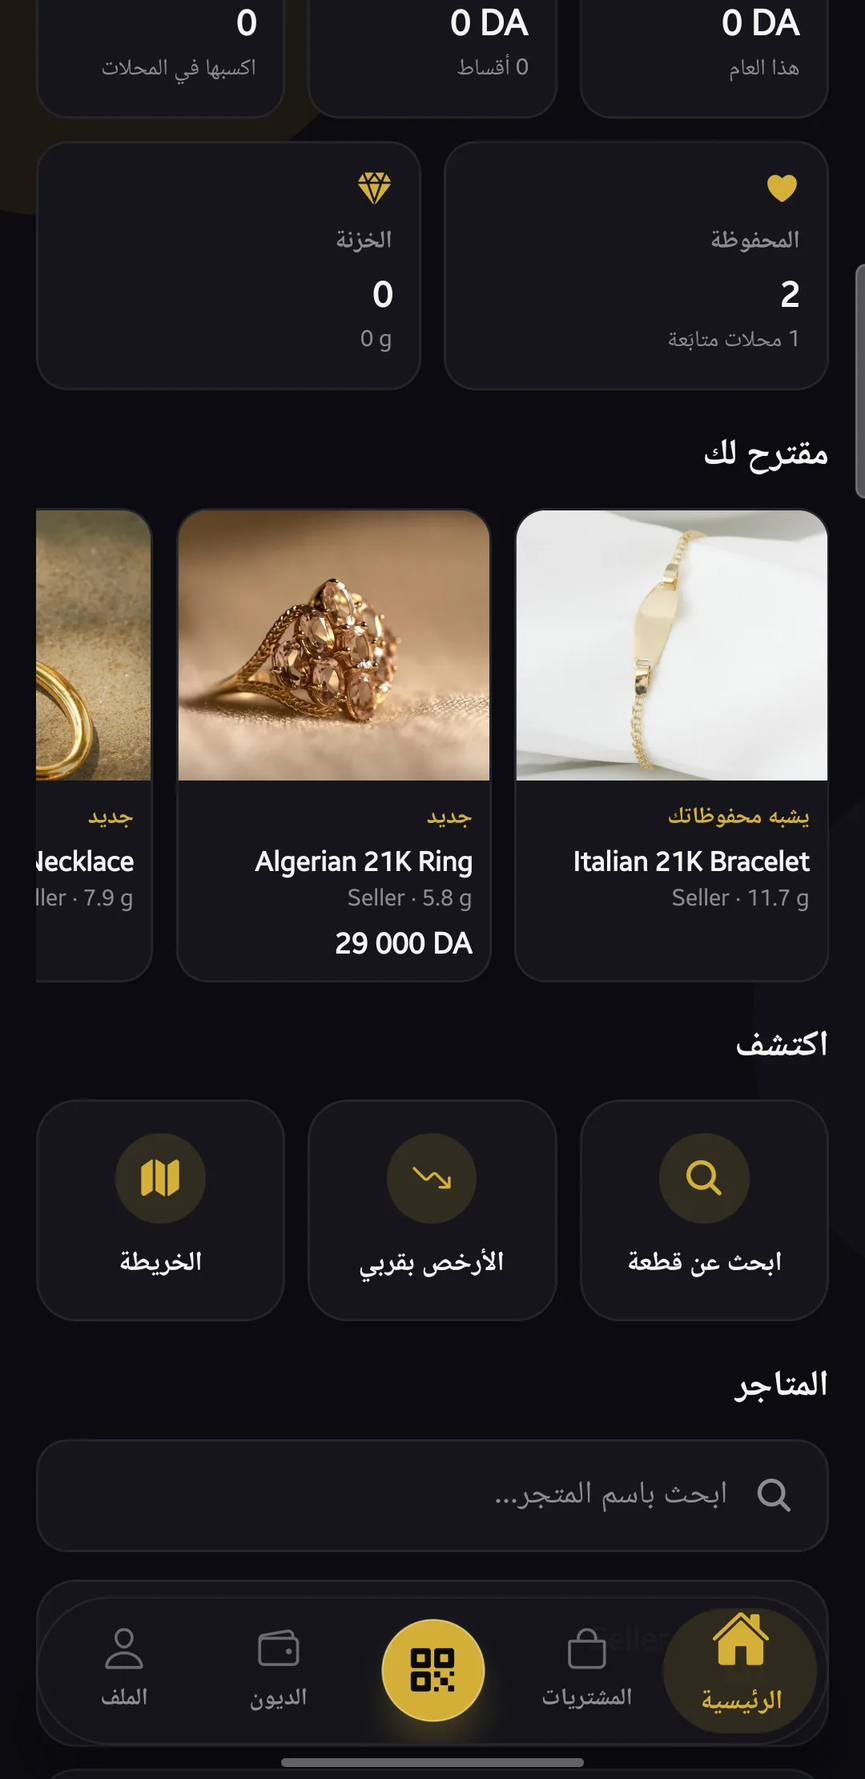
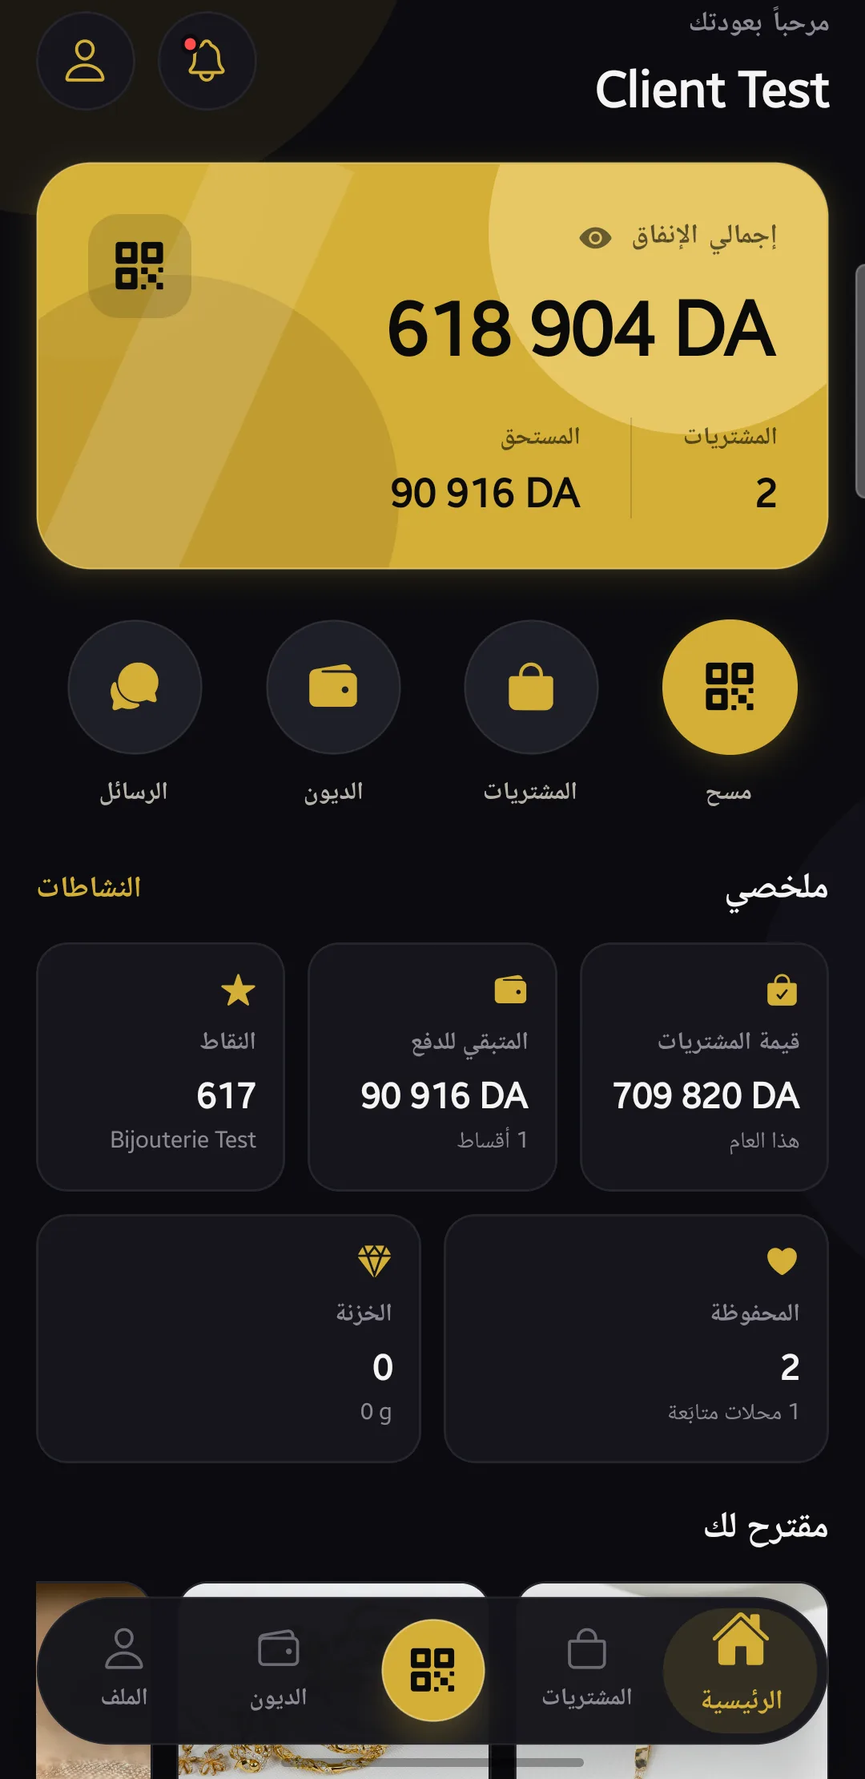
feat: shop QR links and the 1.4.3 features
- /shop/?s=<store> page: a printed shop QR opens here on phones without
  Aureum, with the download button (and "open in Aureum" for older versions)
- .well-known/assetlinks.json: lets Android open aureum-dz.com/shop links
  straight in the app (Android App Links, release-key fingerprint)
- .nojekyll so GitHub Pages publishes the .well-known folder
- Features: automatic 10% price alert, member card, printable shop QR,
  full sale details with every installment payment
- Tour: new screenshots (member card, flip cards, sale details, shop QR)
  and refreshed home, shop page and sell screens

diff --git a/index.html b/index.html
@@ -104,10 +104,11 @@
           <ul class="list">
             <li><span class="ic"><svg><use href="#i-tag"/></svg></span><div><b data-i18n="c1.b">سعر الغرام اليوم</b><span data-i18n="c1.s">كل محل ينشر سعره، وكل قطعة يظهر ثمنها حسب وزنها.</span></div></li>
             <li><span class="ic"><svg><use href="#i-map"/></svg></span><div><b data-i18n="c2.b">ابحث حسب ميزانيتك</b><span data-i18n="c2.s">قطع من محلات قريبة ضمن ميزانيتك، الأرخص قربك، والمحلات على الخريطة.</span></div></li>
-            <li><span class="ic"><svg><use href="#i-heart"/></svg></span><div><b data-i18n="c3.b">احفظ وتابع</b><span data-i18n="c3.s">تابع محلاتك واحفظ القطع، ويصلك تنبيه عندما ينخفض السعر.</span></div></li>
+            <li><span class="ic"><svg><use href="#i-heart"/></svg></span><div><b data-i18n="c3.b">احفظ وتابع</b><span data-i18n="c3.s">تابع محلاتك واحفظ القطع. تنبيه تلقائي عندما ينخفض السعر 10%، أو حدّد السعر الذي تريده.</span></div></li>
             <li><span class="ic"><svg><use href="#i-near"/></svg></span><div><b data-i18n="c4.b">شراء مؤكَّد بهاتفين</b><span data-i18n="c4.s">أكّد الشراء من هاتفك عند البائع، حتى بدون إنترنت.</span></div></li>
             <li><span class="ic"><svg><use href="#i-vault"/></svg></span><div><b data-i18n="c5.b">خزنتك الخاصة</b><span data-i18n="c5.s">سجّل مجوهراتك بصورها، لا يراها غيرك.</span></div></li>
             <li><span class="ic"><svg><use href="#i-star"/></svg></span><div><b data-i18n="c6.b">نقاط وأقساط</b><span data-i18n="c6.s">اجمع نقاطاً في محلاتك وخذ تخفيضاً، وتابع أقساطك ودفعاتك.</span></div></li>
+            <li><span class="ic"><svg><use href="#i-qr"/></svg></span><div><b data-i18n="c7.b">بطاقة العضو</b><span data-i18n="c7.s">رمز QR باسمك يمسحه المحل ليسجّل مشترياتك باسمك.</span></div></li>
           </ul>
         </article>
         <article class="side gold">
@@ -120,6 +121,8 @@
             <li><span class="ic"><svg><use href="#i-chart"/></svg></span><div><b data-i18n="s4.b">لوحة محلك</b><span data-i18n="s4.s">من يشاهد قطعك ومن أي مسافة، وما يبحث عنه الناس قربك.</span></div></li>
             <li><span class="ic"><svg><use href="#i-users"/></svg></span><div><b data-i18n="s5.b">العمال بصلاحيات</b><span data-i18n="s5.s">كل عامل يرى ويفعل ما تسمح له به فقط.</span></div></li>
             <li><span class="ic"><svg><use href="#i-export"/></svg></span><div><b data-i18n="s6.b">بياناتك لك</b><span data-i18n="s6.s">صدّرها PDF أو Word أو Excel متى شئت. ويعمل حتى بدون إنترنت.</span></div></li>
+            <li><span class="ic"><svg><use href="#i-qr"/></svg></span><div><b data-i18n="s7.b">رمز محلك للطباعة</b><span data-i18n="s7.s">ملصق A4 أو بطاقات زيارة بالرمز والشعار والهاتف. من لديه التطبيق تُفتح له صفحة محلك مباشرة.</span></div></li>
+            <li><span class="ic"><svg><use href="#i-chart"/></svg></span><div><b data-i18n="s8.b">تفاصيل كل بيعة</b><span data-i18n="s8.s">القطعة، سعر الذهب لحظة البيع، الزبون، وكل دفعة قسط بتاريخها وساعتها.</span></div></li>
           </ul>
           <p class="note" data-i18n="shop.note"><b>تجربة مجانية</b> لكل محل جديد. للاشتراك والتفعيل راسلنا على واتساب.</p>
         </article>
@@ -135,12 +138,16 @@
         <figure><div class="frame"><div class="shot"><img src="assets/screens/sign-in.webp" alt="" loading="lazy"><div class="ph"><span class="tile"></span><span data-i18n="shot.soon0a">صورة قريباً</span></div></div></div><figcaption><b data-i18n="t0a.b">تسجيل الدخول</b><span data-i18n="t0a.s">بحساب Google، بنقرة واحدة</span></figcaption></figure>
         <figure><div class="frame"><div class="shot"><img src="assets/screens/choose-role.webp" alt="" loading="lazy"><div class="ph"><span class="tile"></span><span data-i18n="shot.soon0b">صورة قريباً</span></div></div></div><figcaption><b data-i18n="t0b.b">زبون أو محل</b><span data-i18n="t0b.s">اختر دورك عند إنشاء الحساب</span></figcaption></figure>
         <figure><div class="frame"><div class="shot"><img src="assets/screens/customer-home.webp" alt="" loading="lazy"><div class="ph"><span class="tile"></span><span data-i18n="shot.soon2">صورة قريباً</span></div></div></div><figcaption><b data-i18n="t1.b">الرئيسية</b><span data-i18n="t1.s">أسعار محلاتك وما يناسبك</span></figcaption></figure>
+        <figure><div class="frame"><div class="shot"><img src="assets/screens/member-card.webp" alt="" loading="lazy"><div class="ph"><span class="tile"></span><span data-i18n="shot.soon9">صورة قريباً</span></div></div></div><figcaption><b data-i18n="t1b.b">بطاقة العضو</b><span data-i18n="t1b.s">رمزك لكل محل</span></figcaption></figure>
         <figure><div class="frame"><div class="shot"><img src="assets/screens/discover.webp" alt="" loading="lazy"><div class="ph"><span class="tile"></span><span data-i18n="shot.soon3">صورة قريباً</span></div></div></div><figcaption><b data-i18n="t2.b">اكتشف</b><span data-i18n="t2.s">الميزانية، الأرخص قربك، الخريطة</span></figcaption></figure>
-        <figure><div class="frame"><div class="shot"><img src="assets/screens/shop-page.webp" alt="" loading="lazy"><div class="ph"><span class="tile"></span><span data-i18n="shot.soon4">صورة قريباً</span></div></div></div><figcaption><b data-i18n="t3.b">صفحة المحل</b><span data-i18n="t3.s">الأسعار، القطع، الهاتف والموقع</span></figcaption></figure>
+        <figure><div class="frame"><div class="shot"><img src="assets/screens/shop-page.webp" alt="" loading="lazy"><div class="ph"><span class="tile"></span><span data-i18n="shot.soon4">صورة قريباً</span></div></div></div><figcaption><b data-i18n="t3.b">صفحة المحل</b><span data-i18n="t3.s">الأسعار، القطع، المتابعون وتنبيه السعر</span></figcaption></figure>
+        <figure><div class="frame"><div class="shot"><img src="assets/screens/flip-cards.webp" alt="" loading="lazy"><div class="ph"><span class="tile"></span><span data-i18n="shot.soon9">صورة قريباً</span></div></div></div><figcaption><b data-i18n="t3b.b">القطع</b><span data-i18n="t3b.s">اقلب القطعة لترى وزنها وتفاصيلها</span></figcaption></figure>
         <figure><div class="frame"><div class="shot"><img src="assets/screens/saved-vault.webp" alt="" loading="lazy"><div class="ph"><span class="tile"></span><span data-i18n="shot.soon5">صورة قريباً</span></div></div></div><figcaption><b data-i18n="t4.b">المحفوظات والخزنة</b><span data-i18n="t4.s">تنبيهات الأسعار ومجوهراتك</span></figcaption></figure>
         <figure><div class="frame"><div class="shot"><img src="assets/screens/nearby-pay.webp" alt="" loading="lazy"><div class="ph"><span class="tile"></span><span data-i18n="shot.soon6">صورة قريباً</span></div></div></div><figcaption><b data-i18n="t5.b">الشراء بجانب البائع</b><span data-i18n="t5.s">تأكيد من هاتفك، بدون إنترنت</span></figcaption></figure>
         <figure><div class="frame"><div class="shot"><img src="assets/screens/seller-dashboard.webp" alt="" loading="lazy"><div class="ph"><span class="tile"></span><span data-i18n="shot.soon7">صورة قريباً</span></div></div></div><figcaption><b data-i18n="t6.b">لوحة المحل</b><span data-i18n="t6.s">المبيعات، المشاهدات، الطلب قربك</span></figcaption></figure>
-        <figure><div class="frame"><div class="shot"><img src="assets/screens/seller-sell.webp" alt="" loading="lazy"><div class="ph"><span class="tile"></span><span data-i18n="shot.soon8">صورة قريباً</span></div></div></div><figcaption><b data-i18n="t7.b">البيع</b><span data-i18n="t7.s">بالرمز أو بالهاتف القريب</span></figcaption></figure>
+        <figure><div class="frame"><div class="shot"><img src="assets/screens/sale-details.webp" alt="" loading="lazy"><div class="ph"><span class="tile"></span><span data-i18n="shot.soon9">صورة قريباً</span></div></div></div><figcaption><b data-i18n="t6b.b">تفاصيل البيع</b><span data-i18n="t6b.s">كل دفعة بتاريخها وساعتها</span></figcaption></figure>
+        <figure><div class="frame"><div class="shot"><img src="assets/screens/seller-sell.webp" alt="" loading="lazy"><div class="ph"><span class="tile"></span><span data-i18n="shot.soon8">صورة قريباً</span></div></div></div><figcaption><b data-i18n="t7.b">البيع</b><span data-i18n="t7.s">خطوات واضحة، اسحب لتأكيد البيع</span></figcaption></figure>
+        <figure><div class="frame"><div class="shot"><img src="assets/screens/shop-qr-print.webp" alt="" loading="lazy"><div class="ph"><span class="tile"></span><span data-i18n="shot.soon9">صورة قريباً</span></div></div></div><figcaption><b data-i18n="t7b.b">رمز المحل</b><span data-i18n="t7b.s">ملصق أو بطاقات زيارة للطباعة</span></figcaption></figure>
         <figure><div class="frame"><div class="shot"><img src="assets/screens/widgets.webp" alt="" loading="lazy"><div class="ph"><span class="tile"></span><span data-i18n="shot.soon9">صورة قريباً</span></div></div></div><figcaption><b data-i18n="t8.b">أدوات الشاشة الرئيسية</b><span data-i18n="t8.s">السعر، مبيعات اليوم، بطاقتك</span></figcaption></figure>
       </div>
       <div class="videos" data-videos-block hidden>
@@ -236,7 +243,7 @@ window.I18N = {
     'cust.title': 'Pour les clients', 'cust.tag': 'Entièrement gratuit',
     'c1.b': 'Le prix du gramme du jour', 'c1.s': 'Chaque bijouterie publie son prix ; chaque pièce affiche le sien selon son poids.',
     'c2.b': 'Cherchez selon votre budget', 'c2.s': 'Des pièces des bijouteries proches dans votre budget, la moins chère près de vous, et la carte.',
-    'c3.b': 'Enregistrez et suivez', 'c3.s': 'Suivez vos bijouteries, enregistrez des pièces et soyez prévenu quand le prix baisse.',
+    'c3.b': 'Enregistrez et suivez', 'c3.s': 'Suivez vos bijouteries, enregistrez des pièces : alerte automatique si le prix baisse de 10 %, ou fixez votre prix.',
     'c4.b': 'Achat confirmé à deux téléphones', 'c4.s': 'Confirmez l’achat depuis votre téléphone chez le bijoutier, même sans internet.',
     'c5.b': 'Votre coffre privé', 'c5.s': 'Enregistrez vos bijoux avec leurs photos ; personne d’autre ne les voit.',
     'c6.b': 'Points et crédits', 'c6.s': 'Cumulez des points dans vos bijouteries pour une remise, et suivez vos crédits.',
@@ -256,11 +263,11 @@ window.I18N = {
     't0b.b': 'Client ou bijoutier', 't0b.s': 'Choisissez votre rôle à l’inscription',
     't1.b': 'Accueil', 't1.s': 'Les prix de vos bijouteries et nos suggestions',
     't2.b': 'Découvrir', 't2.s': 'Budget, le moins cher près de vous, la carte',
-    't3.b': 'Page de la bijouterie', 't3.s': 'Prix, pièces, téléphone et adresse',
+    't3.b': 'Page de la bijouterie', 't3.s': 'Prix, pièces, abonnés et alerte de prix',
     't4.b': 'Favoris et coffre', 't4.s': 'Alertes de prix et vos bijoux',
     't5.b': 'Achat à côté du vendeur', 't5.s': 'Confirmation depuis votre téléphone, sans internet',
     't6.b': 'Tableau de bord', 't6.s': 'Ventes, vues, demande près de vous',
-    't7.b': 'Vente', 't7.s': 'Par code ou par téléphone à proximité',
+    't7.b': 'Vente', 't7.s': 'Des étapes claires, glissez pour valider',
     't8.b': 'Widgets d’écran d’accueil', 't8.s': 'Le prix, les ventes du jour, votre carte',
     'v1.b': 'Le guide client en vidéo', 'v1.s': 'Quelques minutes pour tout savoir',
     'v2.b': 'Le guide bijoutier en vidéo', 'v2.s': 'De la première pièce à la première vente',
@@ -283,7 +290,8 @@ window.I18N = {
     'q9': 'Mes données sont-elles en sécurité ?', 'a9': 'Nous ne vendons pas vos données et n’affichons aucune publicité. Lisez la <a href="privacy.html">politique de confidentialité</a>.',
     'ct.kicker': 'Contact', 'ct.title': 'Une question ? Une bijouterie qui veut nous rejoindre ?',
     'ct.lead': 'Écrivez-nous sur WhatsApp ou par e-mail, nous répondons au plus vite.', 'ct.qr': 'Scannez pour télécharger sur votre téléphone',
-    'ft.privacy': 'Confidentialité', 'ft.download': 'Télécharger', 'ft.wa': 'WhatsApp'
+    'ft.privacy': 'Confidentialité', 'ft.download': 'Télécharger', 'ft.wa': 'WhatsApp',
+    'c7.b': 'Carte de membre', 'c7.s': 'Un QR à votre nom que la bijouterie scanne pour enregistrer vos achats.', 's7.b': 'Le QR de votre bijouterie à imprimer', 's7.s': 'Affiche A4 ou cartes de visite avec le QR, le logo et le téléphone. Avec l’application, il ouvre directement votre page.', 's8.b': 'Le détail de chaque vente', 's8.s': 'La pièce, le prix de l’or au moment de la vente, le client, et chaque versement avec sa date et son heure.', 't1b.b': 'Carte de membre', 't1b.s': 'Votre code pour chaque bijouterie', 't3b.b': 'Les pièces', 't3b.s': 'Retournez une pièce pour voir son poids et ses détails', 't6b.b': 'Détail d’une vente', 't6b.s': 'Chaque versement, date et heure', 't7b.b': 'QR de la bijouterie', 't7b.s': 'Affiche ou cartes de visite à imprimer',
   },
   en: {
     'nav.who': 'Who is it for', 'nav.tour': 'Tour', 'nav.install': 'Install', 'nav.faq': 'FAQ', 'nav.contact': 'Contact', 'nav.download': 'Download',
@@ -296,7 +304,7 @@ window.I18N = {
     'cust.title': 'For customers', 'cust.tag': 'Completely free',
     'c1.b': 'Today’s price per gram', 'c1.s': 'Every shop publishes its price; every piece shows its own, by weight.',
     'c2.b': 'Search by budget', 'c2.s': 'Pieces from nearby shops within your budget, the cheapest near you, and the map.',
-    'c3.b': 'Save and follow', 'c3.s': 'Follow your shops, save pieces, and get told when a price drops.',
+    'c3.b': 'Save and follow', 'c3.s': 'Follow your shops and save pieces: an automatic alert when the price drops 10%, or set your own price.',
     'c4.b': 'Two-phone confirmed purchase', 'c4.s': 'Confirm the purchase from your phone at the counter, even without internet.',
     'c5.b': 'Your private vault', 'c5.s': 'Keep a record of your jewellery with photos; nobody else sees it.',
     'c6.b': 'Points and instalments', 'c6.s': 'Earn points at your shops for a discount, and follow your instalments.',
@@ -316,11 +324,11 @@ window.I18N = {
     't0b.b': 'Customer or shop', 't0b.s': 'Pick your role when you sign up',
     't1.b': 'Home', 't1.s': 'Your shops’ prices and picks for you',
     't2.b': 'Discover', 't2.s': 'Budget, cheapest near you, the map',
-    't3.b': 'Shop page', 't3.s': 'Prices, pieces, phone and location',
+    't3.b': 'Shop page', 't3.s': 'Prices, pieces, followers and price alerts',
     't4.b': 'Saved and vault', 't4.s': 'Price alerts and your jewellery',
     't5.b': 'Buying at the counter', 't5.s': 'Confirm from your phone, no internet needed',
     't6.b': 'Shop dashboard', 't6.s': 'Sales, views, demand near you',
-    't7.b': 'Selling', 't7.s': 'By code or by the nearby phone',
+    't7.b': 'Selling', 't7.s': 'Clear steps, slide to confirm',
     't8.b': 'Home-screen widgets', 't8.s': 'The price, today’s sales, your card',
     'v1.b': 'Customer guide video', 'v1.s': 'A few minutes to know it all',
     'v2.b': 'Shop guide video', 'v2.s': 'From the first piece to the first sale',
@@ -343,7 +351,8 @@ window.I18N = {
     'q9': 'Is my data safe?', 'a9': 'We don’t sell your data and show no ads. Read the <a href="privacy.html">privacy policy</a>.',
     'ct.kicker': 'Contact', 'ct.title': 'A question? A shop that wants to join?',
     'ct.lead': 'Message us on WhatsApp or by email; we reply as soon as we can.', 'ct.qr': 'Scan to download on your phone',
-    'ft.privacy': 'Privacy', 'ft.download': 'Download', 'ft.wa': 'WhatsApp'
+    'ft.privacy': 'Privacy', 'ft.download': 'Download', 'ft.wa': 'WhatsApp',
+    'c7.b': 'Member card', 'c7.s': 'A QR with your name that shops scan to record your purchases.', 's7.b': 'Your shop QR, printed', 's7.s': 'An A4 poster or visit cards with the QR, logo and phone. With the app, it opens your shop page directly.', 's8.b': 'Every sale in detail', 's8.s': 'The piece, the gold price at that moment, the customer, and every instalment with its date and time.', 't1b.b': 'Member card', 't1b.s': 'Your code for every shop', 't3b.b': 'Pieces', 't3b.s': 'Flip a piece to see its weight and details', 't6b.b': 'Sale details', 't6b.s': 'Every payment, date and time', 't7b.b': 'Shop QR', 't7b.s': 'Poster or visit cards to print',
   }
 };
 </script>

diff --git a/shop/index.html b/shop/index.html
@@ -1,0 +1,58 @@
+<!doctype html>
+<html lang="ar" dir="rtl">
+<head>
+<meta charset="utf-8">
+<meta name="viewport" content="width=device-width, initial-scale=1">
+<title>Aureum — محل ذهب</title>
+<meta name="description" content="هذا المحل على Aureum: أسعار الذهب اليوم وكل قطعة بوزنها وثمنها. افتحه في التطبيق أو حمّل Aureum للأندرويد.">
+<meta name="theme-color" content="#0A0A0A">
+<meta name="robots" content="noindex">
+<link rel="icon" href="../assets/icon.svg" type="image/svg+xml">
+<meta property="og:title" content="Aureum — محل ذهب">
+<meta property="og:image" content="https://aureum-dz.com/assets/og.png">
+<style>
+  * { margin:0; padding:0; box-sizing:border-box; }
+  body { min-height:100vh; background:#0A0A0A; color:#F5F4F2; font-family:Tahoma,Arial,sans-serif;
+         display:flex; flex-direction:column; align-items:center; justify-content:center; padding:32px 20px; text-align:center; }
+  .logo { width:84px; height:84px; }
+  h1 { color:#D4AF37; font-size:26px; margin-top:18px; line-height:1.4; }
+  p { color:#bdb59a; font-size:15px; margin-top:10px; line-height:1.8; max-width:440px; }
+  .fr { direction:ltr; font-size:13px; color:#8f8975; }
+  .btns { display:flex; flex-direction:column; gap:12px; margin-top:28px; width:100%; max-width:340px; }
+  .btn { display:block; padding:15px 18px; border-radius:14px; font-weight:700; font-size:16px; text-decoration:none; }
+  .gold { background:#D4AF37; color:#0A0A0A; }
+  .line { border:1.5px solid #D4AF37; color:#D4AF37; }
+  .small { margin-top:22px; font-size:13px; }
+  .small a { color:#D4AF37; }
+</style>
+</head>
+<body>
+  <img class="logo" src="../assets/icon.svg" alt="Aureum">
+  <h1>هذا المحل على Aureum</h1>
+  <p>شاهد أسعار الذهب اليوم وكل قطعة بوزنها وثمنها، وتابع المحل لتصلك عروضه.</p>
+  <p class="fr">Cette bijouterie est sur Aureum : prix de l'or du jour et chaque bijou avec son poids et son prix.<br>
+     This shop is on Aureum: today's gold prices and every piece with its weight and price.</p>
+
+  <div class="btns">
+    <a class="btn gold" id="download" href="https://github.com/Aureum-dz/aureum-dz.github.io/releases/latest/download/Aureum.apk">
+      حمّل التطبيق مجاناً · Télécharger</a>
+    <a class="btn line" id="open" href="#">لديّ التطبيق: افتح المحل · Ouvrir dans Aureum</a>
+  </div>
+  <p class="small"><a href="../#install">كيف أثبّت التطبيق؟ · Comment l'installer ?</a></p>
+
+  <script>
+    // Phones with Aureum normally never see this page (the app opens the link
+    // itself). The button covers older app versions: open the shop in the app,
+    // or fall back to the download.
+    (function () {
+      var id = new URLSearchParams(location.search).get('s') || '';
+      var open = document.getElementById('open');
+      if (!/^[A-Za-z0-9-]{1,64}$/.test(id)) { open.style.display = 'none'; return; }
+      var download = document.getElementById('download').href;
+      open.href = 'intent://shops?storeId=' + encodeURIComponent(id) +
+        '#Intent;scheme=aureum;package=com.aureum.marketplace;S.browser_fallback_url=' +
+        encodeURIComponent(download) + ';end';
+    })();
+  </script>
+</body>
+</html>

diff --git a/assets/screens/README.md b/assets/screens/README.md
@@ -15,6 +15,10 @@ site shows a gold frame in its place — nothing breaks.
 | `seller-dashboard.webp` | Tour "Shop dashboard" | Dashboard → Overview |
 | `seller-sell.webp` | Tour "Selling" | Sell screen with a piece chosen |
 | `widgets.webp` | Tour "Home-screen widgets" | Phone home screen with 2–3 Aureum widgets |
+| `member-card.webp` | Tour "Member card" | Customer home → QR button (member card sheet) |
+| `flip-cards.webp` | Tour "Pieces" | Shop page pieces with one card flipped |
+| `sale-details.webp` | Tour "Sale details" | Dashboard → Reports → a sale on installments, scrolled to the payments |
+| `shop-qr-print.webp` | Tour "Shop QR" | Seller home → Shop QR sheet (Poster selected) |
 
 Tips:
 - Take them in Arabic, on a shop with real-looking (but not private) data.
